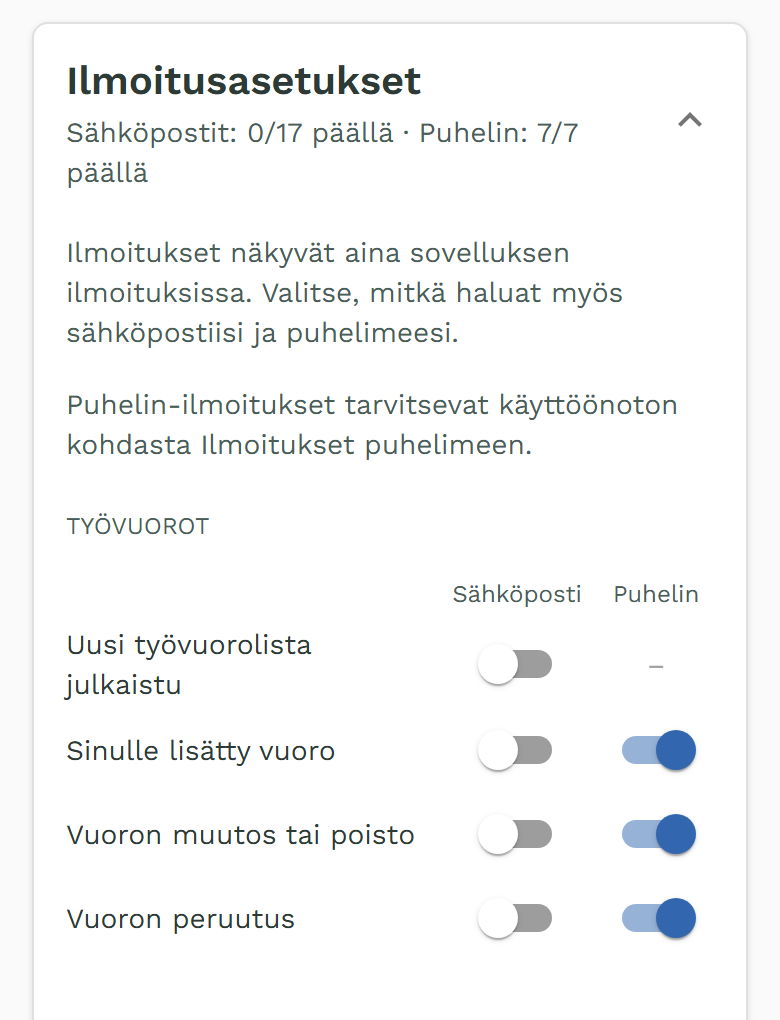
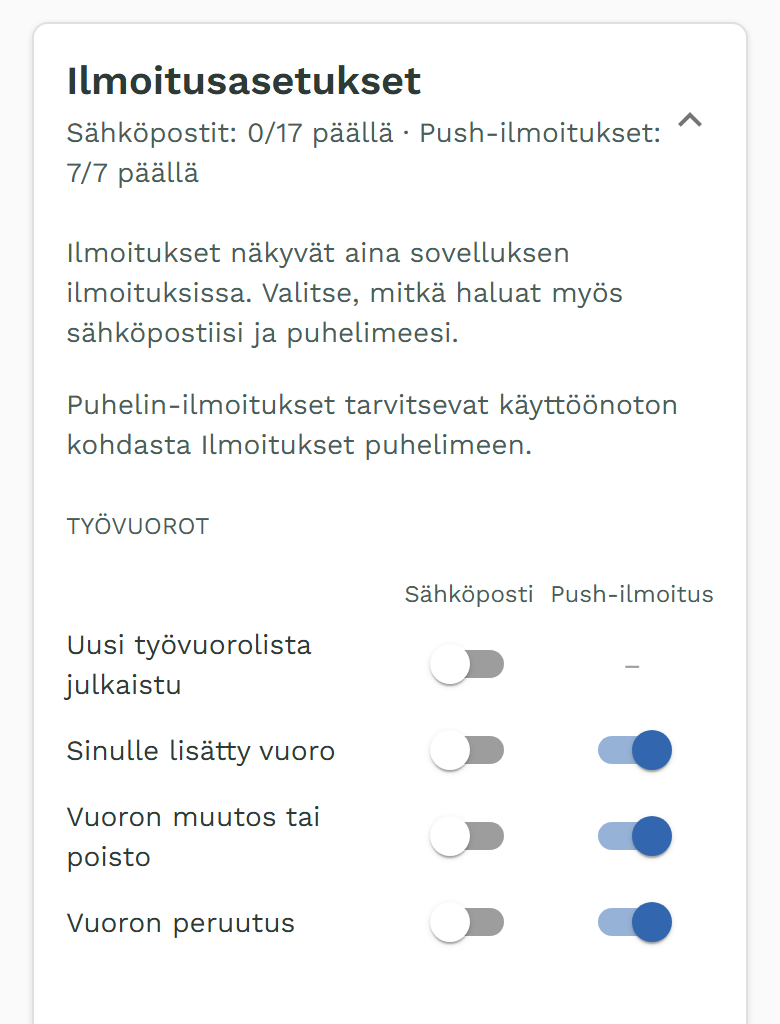
Update blog post images and enhance notification instructions
- Replaced several blog post images to ensure they reflect the latest design updates.
- Revised the notification instructions in ilmoitukset_puhelimeen.md to clarify device settings affecting notification delivery.
- Updated sijaisen_haku.md to improve clarity on the substitute request process and added new visual elements for better user experience.
- Enhanced tekstiviestit.md to provide clearer information on message delivery statuses and user notifications.

diff --git a/src/pages/posts/sijaisen_haku.md b/src/pages/posts/sijaisen_haku.md
@@ -11,6 +11,8 @@ image:
 tags: ['päivitykset', 'uudet ominaisuudet', 'poissaolo', 'ohjeet']
 ---
 
+*Päivitetty 28.9.2026: Etsi sijainen -paneelin uusi ulkoasu. Ilmoittautunut näkyy paneelin kärjessä omassa kortissaan, ja ensimmäisen ilmoittautujan voi hyväksyä automaattisesti.*
+
 *Päivitetty 27.9.2026: sijaiskysely lähtee myös tekstiviestinä. [Ohje](/posts/tekstiviestit).*
 
 *Päivitetty 17.9.2026: ohjevideo sijaisen hausta. Ominaisuussivu: [Sijaisen haku](/ominaisuudet/sijaisen-haku).*
@@ -44,7 +46,7 @@ Sofian vuoro jää kalenteriin poissaolona. Sen päälle tulee harmaa raidalline
 
 ### 2. Kysy sijaista
 
-**Etsi sijainen** avautuu heti. Siinä ovat työntekijät, jotka voivat ottaa vuoron. Rivillä näkyvät jäljellä olevat tunnit sekä mahdollinen TES-varoitus tai vapaatoive.
+**Etsi sijainen** avautuu heti. Kohdassa **Sopivat sijaiset** ovat työntekijät, jotka voivat ottaa vuoron. Rivillä näkyvät jäljellä olevat tunnit ja muut vuorot samana päivänä. Varoitukset, kuten lepoaika alle 11 h tai vapaatoive, näkyvät keltaisella.
 
 Ne, jotka eivät voi ottaa vuoroa, ovat kohdassa **Ei sopivia**. Avaa se, niin näet syyn, esimerkiksi toisen vuoron samana päivänä.
 
@@ -52,15 +54,27 @@ Ne, jotka eivät voi ottaa vuoroa, ovat kohdassa **Ei sopivia**. Avaa se, niin n
 
 Sinulla on kolme tapaa:
 
-- **Kysy kaikilta sopivilta** lähettää kyselyn kaikille listan työntekijöille.
+- **Kysy kaikilta sopivilta** lähettää kyselyn kaikille sopiville, joilta et ole vielä kysynyt.
 - **Kysy valituilta** lähettää kyselyn vain niille, jotka valitsit ruudusta.
-- **Anna vuoro** antaa vuoron heti yhdelle työntekijälle. Käytä tätä, kun olet jo sopinut asiasta puhelimessa.
+- **Anna vuoro** antaa vuoron heti yhdelle työntekijälle. Käytä tätä, kun olet jo sopinut asiasta puhelimessa. Painike on jokaisella rivillä, myös kysytyillä.
 
 Voit etsiä sijaista myös myöhemmin: klikkaa vuoroa ja valitse **Etsi sijainen**.
 
 ### 3. Täytä vuoro
 
-Kun työntekijä ilmoittautuu Oma-portaalissa, saat ilmoituksen. Hyväksy ilmoittautuminen samoin kuin [avoimissa vuoroissa](/posts/avoimet_vuorot_ohje), niin vuoro on täytetty. Voit myös antaa vuoron suoraan painikkeella **Anna vuoro**.
+Kysymisen jälkeen paneelin yläosassa näkyy, montako on kysytty ja milloin, esimerkiksi **Kysytty 2 · klo 11.55**. Kysytyt siirtyvät ryhmiin:
+
+- **Odottaa vastausta:** kysytty, ei vielä vastannut. Rivillä näkyy, milloin kysyit, ja tekstiviestin tila.
+- **Ei pääse:** vastasi, ettei pääse. Rivillä näkyy vastauksen kellonaika.
+- **Muut sopivat:** sopivat, joilta et ole vielä kysynyt. Näiltä voit kysyä lisää.
+
+Kun työntekijä ilmoittautuu Oma-portaalissa, saat ilmoituksen. Hän näkyy paneelin kärjessä vihreäreunaisessa kortissa, jossa lukee **Ilmoittautui klo** ja kellonaika. Paina **Hyväksy ilmoittautuminen**, niin vuoro on täytetty. **Hylkää** hylkää ilmoittautumisen, ja vuoro jää auki.
+
+<img src="/blogPostImages/sijaisen-haku/ilmoittautunut.png" alt="Etsi sijainen: Jussi ilmoittautui klo 11.55, napit Hyväksy ilmoittautuminen ja Hylkää. Emma kohdassa Odottaa vastausta." width="100%" style="max-width: 420px; display: block; margin: 20px auto;" />
+
+Jos haluat, että vuoro täyttyy ilman sinua, valitse paneelin alaosasta **Hyväksy ensimmäinen ilmoittautuja automaattisesti**. Silloin ensimmäinen kysytyistä, joka ilmoittautuu, saa vuoron heti. Ilman valintaa ilmoittautumiset odottavat, että hyväksyt ne.
+
+Voit myös antaa vuoron suoraan painikkeella **Anna vuoro**, esimerkiksi kun kysytty vastaa puhelimessa.
 
 Kun vuoro on täytetty, muut kysytyt saavat ilmoituksen "Sijaista ei enää tarvita". Sovellus ei julkaise mitään automaattisesti.
 

diff --git a/src/pages/posts/ilmoitukset_puhelimeen.md b/src/pages/posts/ilmoitukset_puhelimeen.md
@@ -87,7 +87,13 @@ Kotinäytöltä avattu Oma ei näe Safarin kirjautumista, joten siihen kirjaudut
 
 ### Tuleeko ilmoitus perille
 
-Paina **Lähetä testi-ilmoitus**. Ilmoitus "Ilmoitukset toimivat" tulee muutamassa sekunnissa. Jos se ei tule, tarkista, ettei puhelin ole äänettömällä tai keskittymistilassa. Jos se ei tule vieläkään, paina **Poista käytöstä tällä laitteella** ja ota ilmoitukset uudelleen käyttöön.
+Paina **Lähetä testi-ilmoitus**. Ilmoitus "Ilmoitukset toimivat" tulee muutamassa sekunnissa. Jos se ei tule, laitteen omat asetukset estävät sen yleensä selaimen luvasta huolimatta:
+
+- **Puhelin:** äänetön tila tai keskittymistila
+- **Windows:** Asetukset → Järjestelmä → Ilmoitukset: ilmoitukset päälle ja Chrome tai Edge sallituksi, Älä häiritse pois
+- **Mac:** Järjestelmäasetukset → Ilmoitukset → Chrome tai Safari: salli ilmoitukset, keskittymistila pois
+
+Jos testi-ilmoitus ei tule vieläkään, paina **Poista käytöstä tällä laitteella** ja ota ilmoitukset uudelleen käyttöön.
 
 Jos kortissa lukee, että ilmoitukset on estetty, salli ne puhelimen asetuksista:
 
@@ -96,9 +102,9 @@ Jos kortissa lukee, että ilmoitukset on estetty, salli ne puhelimen asetuksista
 
 ### Valitse, mitkä ilmoitukset tulevat
 
-Profiilin **Ilmoitusasetuksissa** on kaksi saraketta: **Sähköposti** ja **Puhelin**. Puhelin-ilmoitukset ovat oletuksena päällä kaikissa lajeissa, joissa niitä voi saada. Kytke pois ne, joita et halua puhelimeen.
+Profiilin **Ilmoitusasetuksissa** on kaksi saraketta: **Sähköposti** ja **Push-ilmoitus**. Push-ilmoitukset ovat oletuksena päällä kaikissa lajeissa, joissa niitä voi saada. Kytke pois ne, joita et halua puhelimeen.
 
-<img class="blogPhone" src="/blogPostImages/ilmoitukset-puhelimeen/asetukset-puhelin.png" alt="Ilmoitusasetukset: sarakkeet Sähköposti ja Puhelin. Vuoron lisäys, muutos ja peruutus ovat päällä Puhelin-sarakkeessa." />
+<img class="blogPhone" src="/blogPostImages/ilmoitukset-puhelimeen/asetukset-puhelin.png" alt="Ilmoitusasetukset: sarakkeet Sähköposti ja Push-ilmoitus. Vuoron lisäys, muutos ja peruutus ovat päällä Push-ilmoitus-sarakkeessa." />
 
 Kun kirjaudut ulos, ilmoitukset loppuvat tältä laitteelta. Jaetulla laitteella seuraava käyttäjä ei saa sinun ilmoituksiasi.
 

diff --git a/src/pages/posts/tekstiviestit.md b/src/pages/posts/tekstiviestit.md
@@ -63,14 +63,14 @@ Rivillä näkyy, keneltä numero puuttuu ja kuka on kieltänyt viestit. Jos merk
 
 ### Menikö viesti perille
 
-Kysymisen jälkeen rivillä lukee toimitustila.
+Kysymisen jälkeen kysytty siirtyy ryhmään **Odottaa vastausta**, ja hänen rivillään lukee toimitustila. Paneelin yläosassa näkyy, montako on kysytty ja milloin, esimerkiksi **Kysytty 1 · klo 7.40**.
 
-<img src="/blogPostImages/tekstiviestit/kysytty.png" alt="Emma on kysytty ja tekstiviesti on perillä klo 7.42. Liisalta puuttuu yhä numero, Aino on kieltänyt tekstiviestit." width="100%" style="max-width: 420px; display: block; margin: 20px auto;" />
+<img src="/blogPostImages/tekstiviestit/kysytty.png" alt="Kysytty 1 · klo 7.40. Emma kohdassa Odottaa vastausta: Tekstiviesti perillä 7.42. Muut sopivat: Liisalta ja Jussilta puuttuu numero, Aino on kieltänyt tekstiviestit." width="100%" style="max-width: 420px; display: block; margin: 20px auto;" />
 
 - **Tekstiviesti perillä** ja kellonaika: viesti on puhelimessa.
 - **Tekstiviesti lähetetty:** viesti on lähtenyt, toimitusta ei ole vielä vahvistettu.
 - **Tekstiviesti ei mennyt perille:** tarkista numero. **Korjaa numero** tallentaa uuden numeron, **Lähetä uudelleen** lähettää viestin uudestaan.
-- **Ei puhelinnumeroa**, **kieltänyt tekstiviestit** tai **kuukauden raja täynnä:** kysely meni Omaan. Tekstiviestiä ei lähtenyt.
+- **Kysytty klo …** ja perässä **ei puhelinnumeroa**, **kieltänyt tekstiviestit** tai **kuukauden tekstiviestiraja täynnä:** kysely meni Omaan. Tekstiviestiä ei lähtenyt.
 
 ### Asetukset ja kuukausiraja
 
